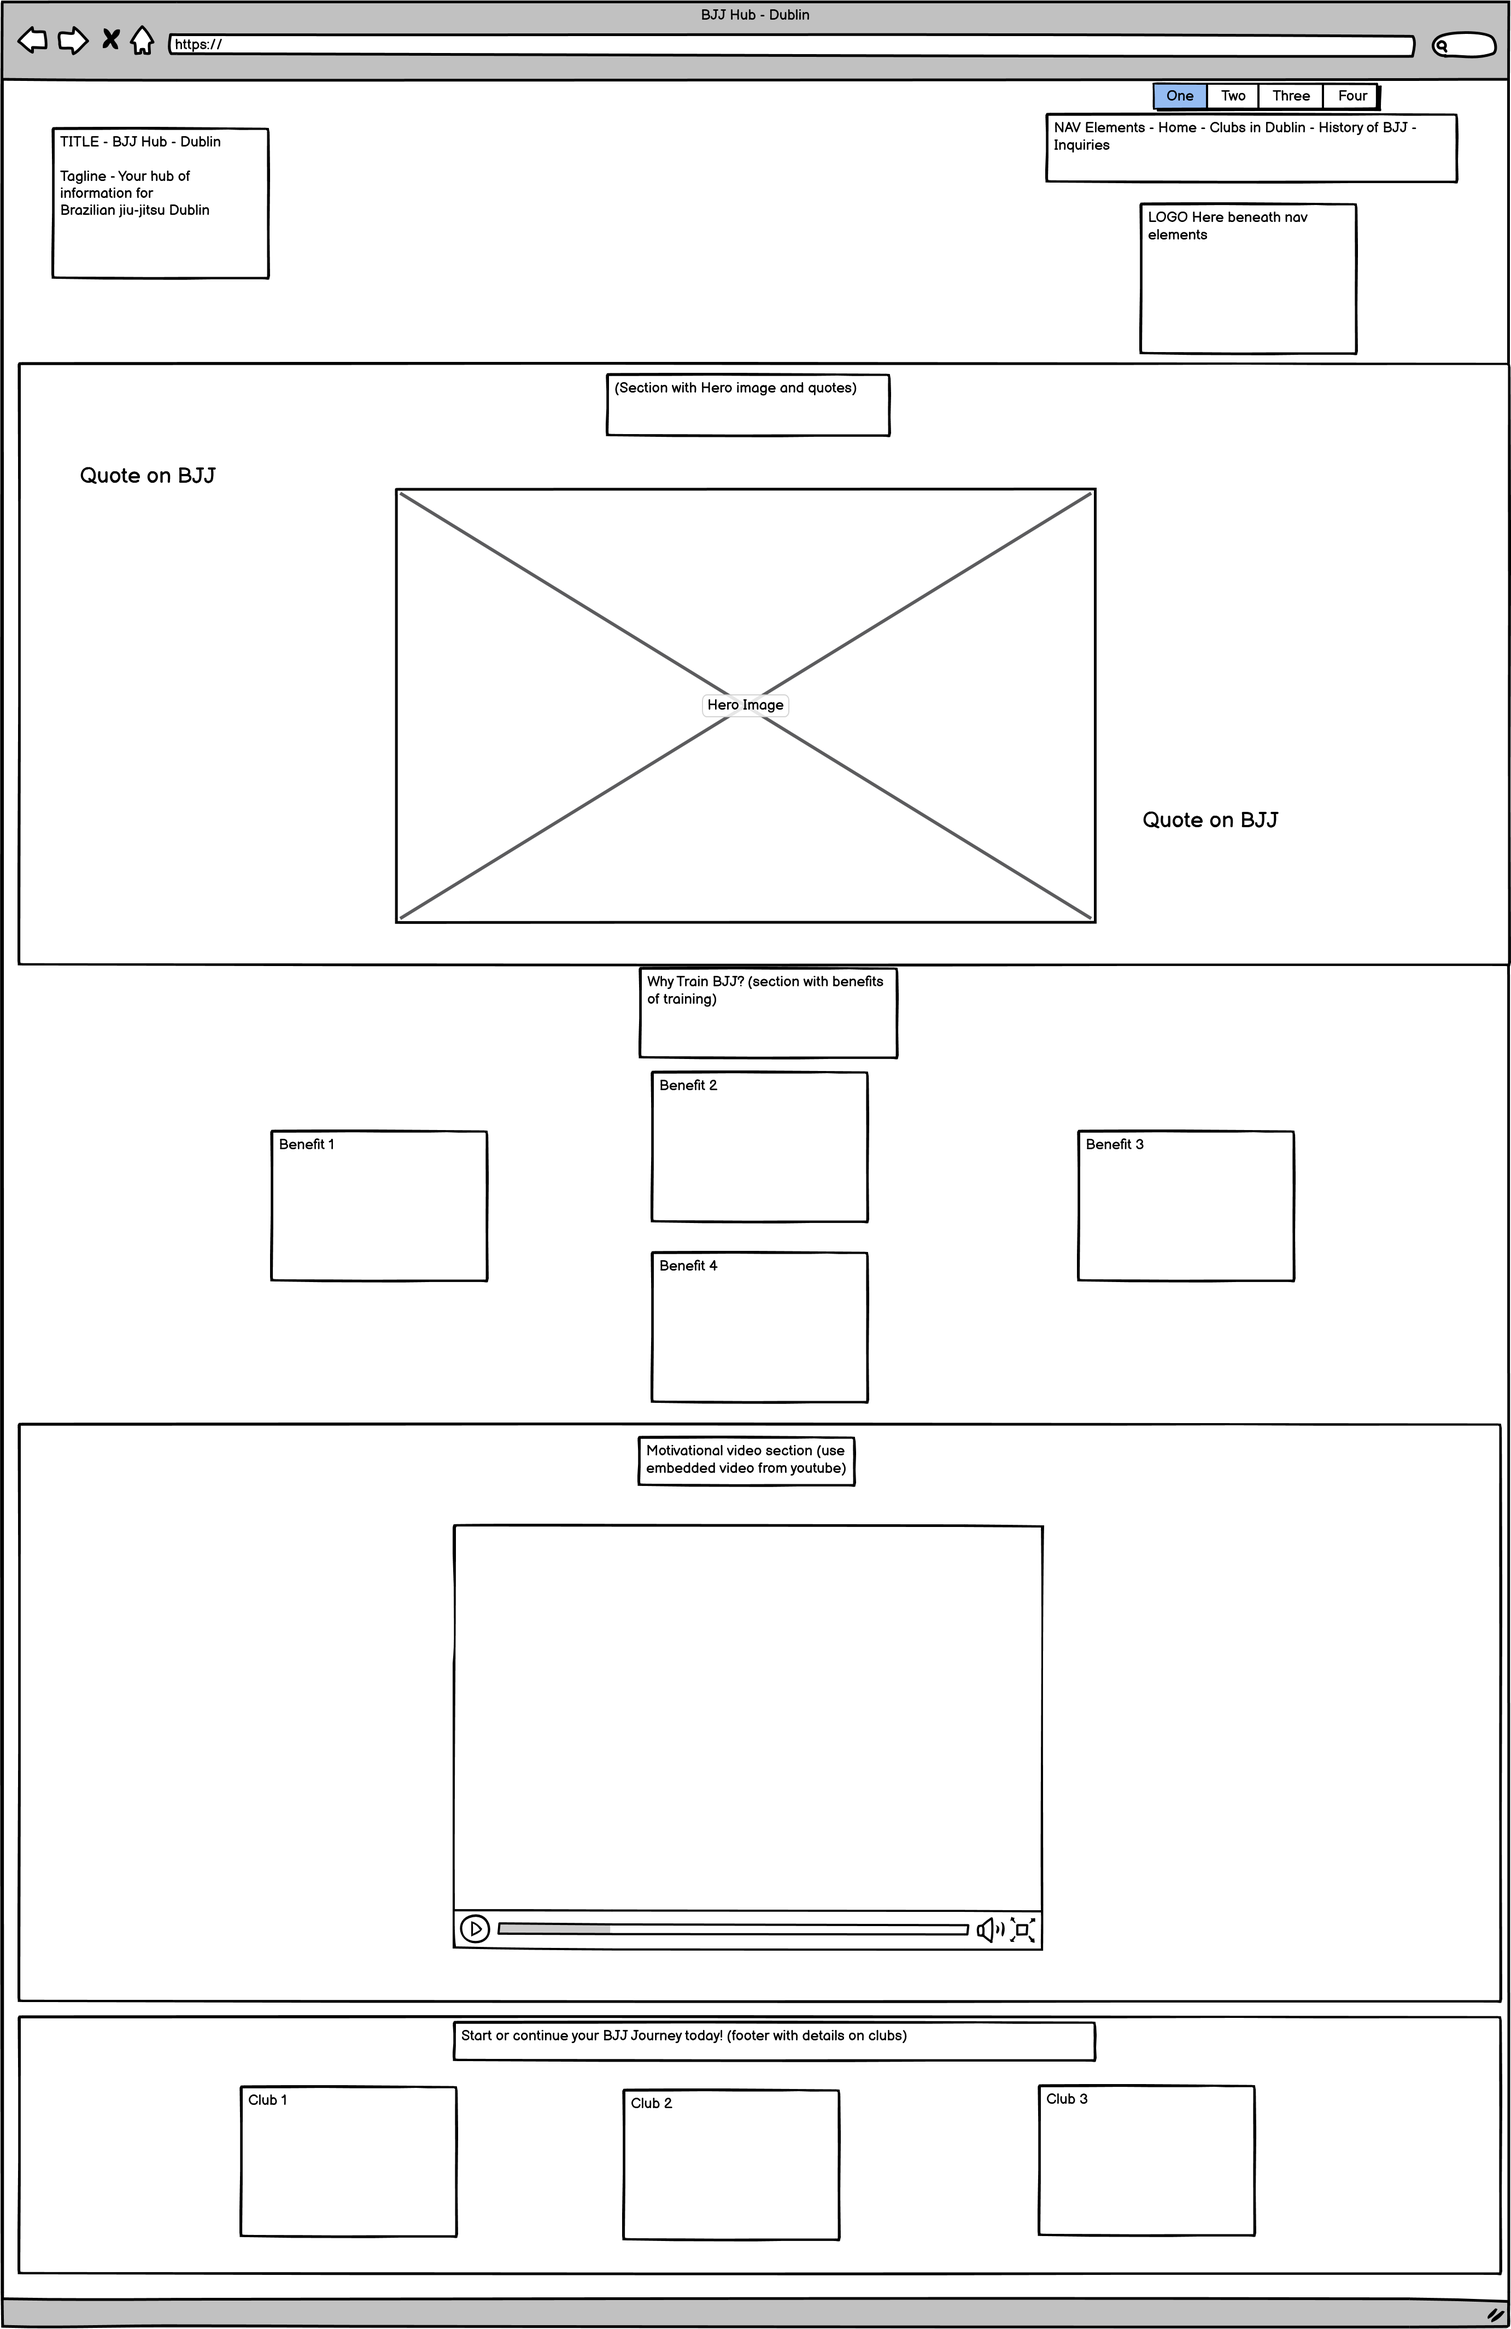
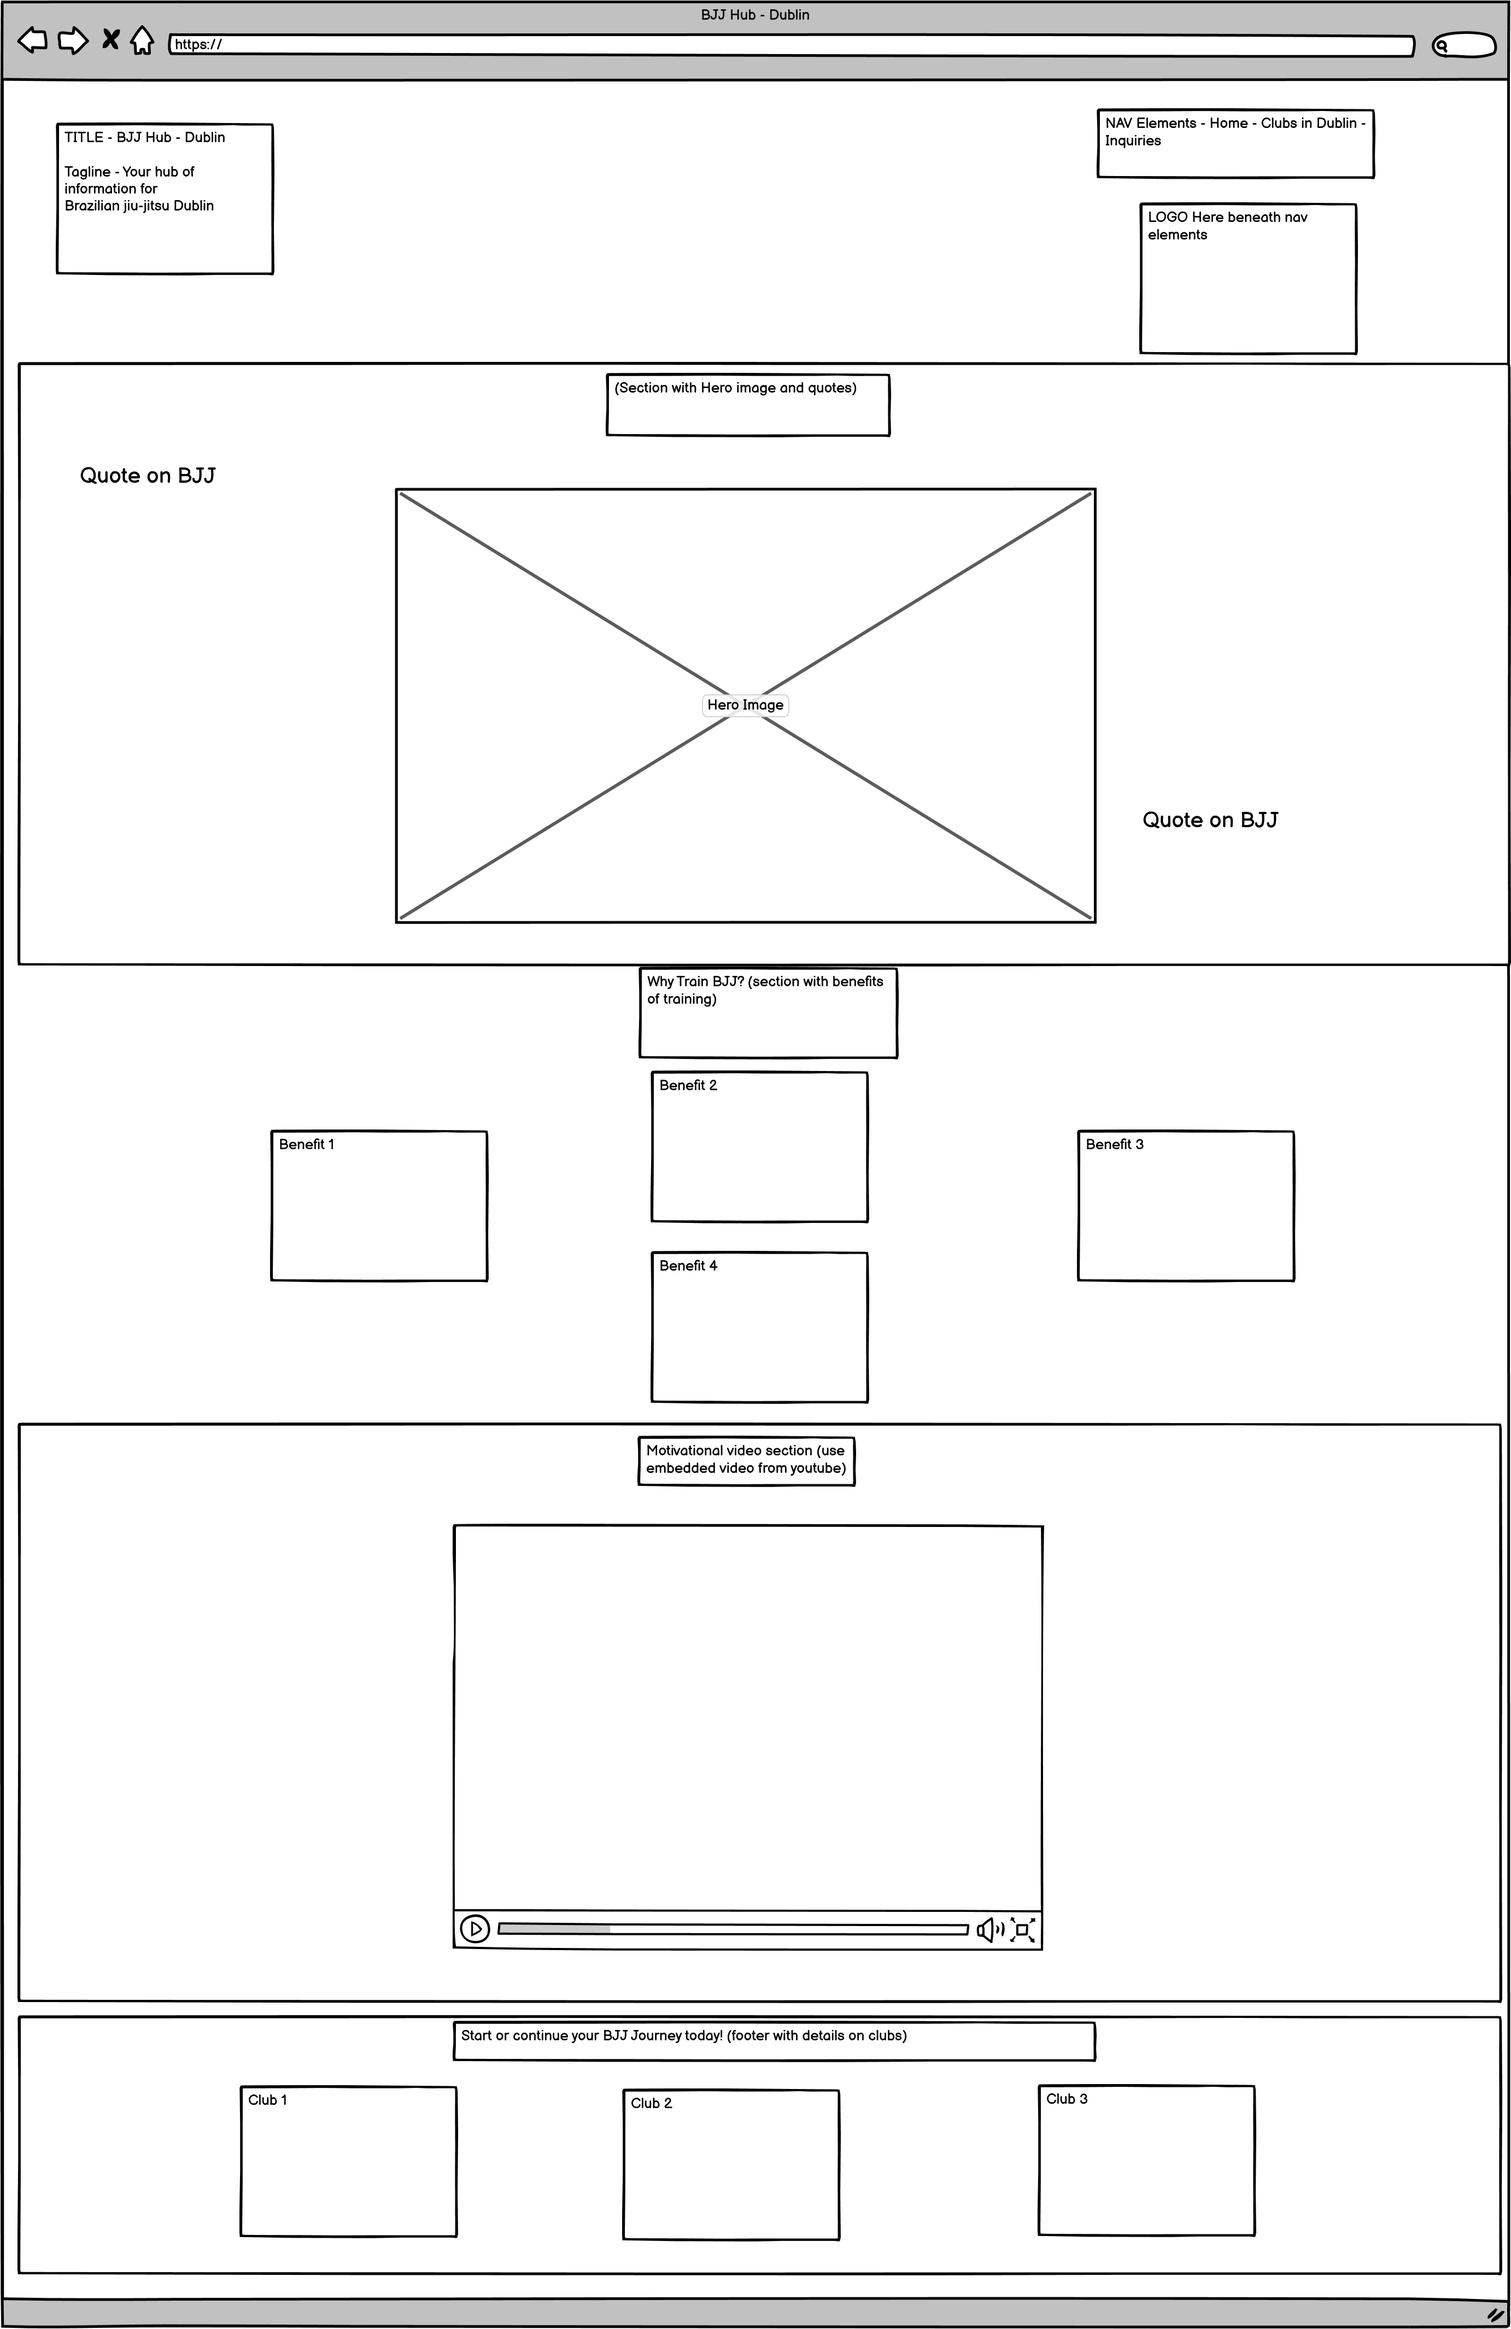
Update README and upload project screenshots

Changed region(s): [[0.6845, 0.0312, 0.9334, 0.0937], [0.0311, 0.0312, 0.1556, 0.1249], [0.1556, 0.0624, 0.1867, 0.1249]]

diff --git a/README.md b/README.md
@@ -28,7 +28,7 @@ For future updates to the project, I would like to include a news section that i
 ### Design
 
 1. Colour Scheme
-    * The colour scheme represents the five belt levels in Brazilian Jiu Jitsu; white, blue, purple, brown, black. It starts at white in the header, then sections in the order of blue, purple and brown with the footer being black.
+    * The colour scheme on the home and clubs in Dublin pages represent the five belt levels in Brazilian Jiu Jitsu; white, blue, purple, brown, black. It starts at white in the header, then sections in the order of blue, purple and brown with the footer being black.
 
 2. Typography
     * The Roboto-Condensed family is used in the header text and section titles with Nunito being used in the individual section content. Sans-serif is set as the fallback font in every case in case the other fonts cannot be imported correctly. Roboto-Condensed and Nunito are used as they are clean, sleek and modern looking.
@@ -43,55 +43,92 @@ For future updates to the project, I would like to include a news section that i
 
 #### Desktop
 
-1. Please find the desktop version wireframe for the home page [here.](/assets/wireframes/desktop/home.png)
-2. Please find the desktop version wireframe for the  clubs in dublin page [here.](/assets/wireframes/desktop/clubs-in-dublin.png)
-3. Please find the desktop version wireframe for the history of bjj page [here.](/assets/wireframes/desktop/history-of-bjj.png)
-4. Please find the desktop version wireframe for the inquiries page [here.](/assets/wireframes/desktop/inquiries.png)
-5. Please find the desktop version wireframe for the  thank you page [here.](/assets/wireframes/desktop/thank-you.png)
+1. Please find the desktop version wireframe for the home page [here.](assets/wireframes/desktop/home.png)
+2. Please find the desktop version wireframe for the  clubs in dublin page [here.](assets/wireframes/desktop/clubs.png)
+3. Please find the desktop version wireframe for the inquiries page [here.](assets/wireframes/desktop/inquiries.png)
+4. Please find the desktop version wireframe for the  thank you page [here.](assets/wireframes/desktop/thanks.png)
 
 #### Mobile
 
-1. Please find the mobile version wireframe for the  home page [here.](/assets/wireframes/mobile/home-mobile.png)
-2. Please find the mobile version wireframe for the mobile clubs in dublin page [here.](/assets/wireframes/mobile/clubs-mobile.png)
-3. Please find the mobile version wireframe for the history of bjj page [here.](/assets/wireframes/mobile/history-mobile.png)
-4. Please find the mobile version wireframe for the inquiries page [here.](/assets/wireframes/mobile/inquiries-mobile.png)
-5. Please find the mobile version wireframe for the  thank you page [here.](/assets/wireframes/mobile/thanks-mobile.png)
+1. Please find the mobile version wireframe for the  home page [here.](assets/wireframes/mobile/home-mobile.png)
+2. Please find the mobile version wireframe for the mobile clubs in dublin page [here.](assets/wireframes/mobile/clubs-mobile.png)
+3. Please find the mobile version wireframe for the inquiries page [here.](assets/wireframes/mobile/inquiries-mobile.png)
+4. Please find the mobile version wireframe for the  thank you page [here.](assets/wireframes/mobile/thanks-mobile.png)
 
+### Coding Languages Used
+
+1. HTML5
+2. CSS3
 
 ### Features
 
-##### Navigation Bar
+The project is responsive on all screen sizes and includes interactive elements.
 
-##### Home page with quotes from BJJ practitioners
+### Navigation Bar and Header
 
-##### Clubs in Dublin 
+The navigation bar is featured on all pages, is fully functional and includes CSS code which underlines which page the user is currently on. On the left hand side of the screen is the site title and logo. The title also functions as a clickable link to return the user to the home page. The nav bar and accompanying elements in the header are fully responsive also.
+![Header screenshot](assets/screenshots/home_nav-screenshot.png)
 
-##### Inquiries
+### Footer
 
-##### Thank You
+The footer's purpose is to serve as a quick way for users to access the online presence of the clubs referred to on the site. There are 3 clubs named in the footer and each one has a working link to their website, Facebook and Instagram pages. 
+![Footer screenshot](assets/screenshots/footer-screenshot.png)
+
+### Home Page 
+
+1. BJJ in action. The first thing a user will see when they click into the site is an exciting video which shows many of the top BJJ competitors in tournaments. The purpose of this video and its placement is to entice the user to play the video and then be compelled to view what else is on offer on both the site and in practicing BJJ.
+![BJJ in action screenshot](assets/screenshots/bjj_in_action-screenshot.png)
+2. Why train BJJ. This is a small section following the video which is intended to steer the user more towards the sites purpose, to train BJJ! The benefits listed are physical, mental and social.
+![Why train bjj](assets/screenshots/why_train_bjj-screenshot.png)
+3. Hero section with quotes. Following the benefits, we have a hero image which is a close up picture of the inside of a BJJ dojo with 2 motivational quotes from world renowned BJJ practitioners. The thinking behind the image itself is to be more calm and than the intense video above and is a reference to BJJ also being known as the "gentle art".
+![Hero Section](assets/screenshots/hero_section-screenshot.png)
+
+### Clubs in Dublin 
+
+The clubs in Dublin page is essentially the core of the project. The home page is intended to motivate people to train in BJJ and the clubs page tells them where they can do so. There are 3 clubs detailed here and each segment has the clubs name, address, a brief paragraph on their ethos and again, links to their website and social media. 
+![Clubs page screenshot](assets/screenshots/clubs-screenshot.png)
+
+### Inquiries
+
+The inquiries page consists of a query form and a background image of the inside of a BJJ club. The query form is designed so that users can forward queries to the site administrator that relate to the clubs in Dublin or even queries on training on BJJ in general. As this project consists of front-end languages only (HTML and CSS) there is currently no back-end functionality to the form. There is however, a brief page thanking the user for their query.
+![Inquiries page screenshot](assets/screenshots/inquiries-screenshot.png)
+
+### Thank You
+
+When a user submits the above inquiries form, they are greeted with a background image of 2 BJJ practitioners demonstrating a throw and also with a message thanking them for their query. There is also a clickable link in the text to return the user to the homepage. 
+![Thanks page screenshot](assets/screenshots/thanks-screenshot.png)
+
+All of the above are fully responsive on all devices.
+
+### Validator Testing
+1. HTML - No errors were returned on any of the project pages when passing through the official [W3C Markup Validator](https://validator.w3.org/).
+2. CSS - No errors found when passing through the official [W3C Jigsaw Validator](https://jigsaw.w3.org/css-validator/).
+
+The [W3C Markup Validator](https://validator.w3.org/) was used to validate all HTML used.
+1. Home page passed the W3C Markup Validator with no errors
 
 
 ### Bugs and Fixes
 
 - As seen in the "Love Running" CI project - I encountered that issue where my nav elements had their order reversed when i set the items to float right. After some googling, I found that the fix was to float the parent of the listed nav items to the right and then, set the li elements beneath to float to the left. 
 
-- There is a textarea included at the bottom of the form on the inquiries page which I noted that, in the browser, a user could resize the box and expand it beyond the containing div. As the textarea is already given a sufficient size in the HTML code written, I decided to apply the "resize: none" rule in the CSS rule for this element.
+- There is a textarea included at the bottom of the form on the inquiries page which I noted that, in the browser, a user could resize the box and expand it beyond the containing div. As the textarea is already given a sufficient size in the HTML code written, I decided to apply the "resize: none" rule in the CSS rule for this element to rectify this.
 
 - While writing the media queries for smaller devices, I was having an issue where a lot of white space was appearing beneath the footer. To fix this, I added the overflow: hidden property to my footer to apply only when the screen size is below a certain size.
 
-- As the reader will see from the included wireframes, it had originally been intended that a "history of bjj" page would be included on the site. However, as this page was comprised of just one large block of text, I felt that this was somewhat disruptive to the flow of the project and also less relevant to the purpose of the site as compared to other pages. In future updates, I would like to re-introduce the page to the site, albeit with the text displayed in a way that flows better and is easier digested by users.
-
 - While coding the media queries for mobile devices, an issue occurred where the header logo did not center itself like the nav and title elements when I input the relevant code. Using devtools on Chrome, I found that this was due to the width I had set previously. Once I removed the width setting from the class in CSS I found that the logo could then center itself once the screen size goes lower than 480px without sacrificing it's position on other screen sizes.
+
+- Originally, the home page hero image with quotes had been at the top of the homepage. However, I felt that it would be more enticing to users to find a playable video at the top of the homescreen instead so I switch their positions on the home page.
+
+### Future Enhancements
+
+- It had originally been intended that a "history of bjj" page would be included on the site. However, as this page was comprised of just one large block of text, I felt that this was somewhat disruptive to the flow of the project and also less relevant to the purpose of the site as compared to other pages. In future updates, I would like to re-introduce the page to the site, albeit with the text displayed in a way that flows better and is easier digested by users.
 
 ### Credit
 
+#### Code used
+
 - Credit to [sitepoint](https://www.sitepoint.com/community/t/navigation-bar-tabs-displaying-backwards/7904/4) where I found the fix to the issue I had regarding the styled navigation elements appearing in reverse order.
-
-- YouTube video titled [Jiu Jitsu Motivation](https://www.youtube.com/watch?v=LUmgrve1sZc) on home page uploaded by Culture Cafe'. All rights belong to WME-IMG and Viacom - No copyright infringement intended - the video is entermainment purposes only.
-
-- Quotes from renowned BJJ practitioners taken from a website called [Fightersmarket](https://fightersmarket.com/blogs/fighter/top-10-bjj-quotes-of-all-time).
-
-- Quotes regarding the benefits of traning obtained from [O Athletic](https://www.oathletik.com/benefits-of-brazilian-jiu-jitsu/) and [The Guardian](https://www.theguardian.com/lifeandstyle/2019/sep/14/fitness-tips-brazilian-jiujitsu).
 
 - Credit to Code Institute Love Running project for code used in respect of the "active" class underlining the page the user is currently on.
 
@@ -103,9 +140,15 @@ For future updates to the project, I would like to include a news section that i
 
 - Credit to Code Institute Love Running project for nav styling on screens 950px and below.
 
-- Credit to [flo grappling](https://www.flograppling.com/articles/6744662-the-history-of-brazilian-jiu-jitsu) which is the source of the "history of bjj" page.
+#### Media
 
-Credit to [Canva](https://www.canva.com/tools/logo-maker-q1/?utm_source=google_sem&utm_medium=cpc&utm_campaign=REV_UK_EN_CanvaPro_Logo_EM&utm_term=REV_UK_EN_CanvaPro_Create+Logo_EM&gclsrc=aw.ds&&gclid=Cj0KCQiAq7COBhC2ARIsANsPATEeQJoN4xeqLm9OEQP9CWOR_wikL-DmAb0Gw58R_b1Jlf2s37o0mJ0aAmL3EALw_wcB) which I used to design the logo shown in the header.
+- YouTube video titled [Jiu Jitsu Motivation](https://www.youtube.com/watch?v=LUmgrve1sZc) on home page uploaded by Culture Cafe'. All rights belong to WME-IMG and Viacom - No copyright infringement intended - the video is entermainment purposes only.
+
+- Quotes from renowned BJJ practitioners taken from a website called [Fightersmarket](https://fightersmarket.com/blogs/fighter/top-10-bjj-quotes-of-all-time).
+
+- Quotes regarding the benefits of traning obtained from [O Athletic](https://www.oathletik.com/benefits-of-brazilian-jiu-jitsu/) and [The Guardian](https://www.theguardian.com/lifeandstyle/2019/sep/14/fitness-tips-brazilian-jiujitsu).
+
+- Credit to [Canva](https://www.canva.com/tools/logo-maker-q1/?utm_source=google_sem&utm_medium=cpc&utm_campaign=REV_UK_EN_CanvaPro_Logo_EM&utm_term=REV_UK_EN_CanvaPro_Create+Logo_EM&gclsrc=aw.ds&&gclid=Cj0KCQiAq7COBhC2ARIsANsPATEeQJoN4xeqLm9OEQP9CWOR_wikL-DmAb0Gw58R_b1Jlf2s37o0mJ0aAmL3EALw_wcB) which I used to design the logo shown in the header.
 
 - Credit to [Artem on Pexels](https://www.pexels.com/photo/healthy-man-person-people-6253346/) for the hero image used on the home page.
 
